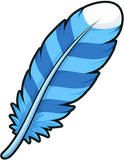
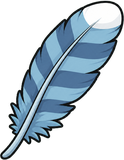
feat(ftb): feathers-only pickup burst from the lower hitbox, half-saturation feathers, wider vertical spread

diff --git a/games/find_the_bird/src/scenes/pickupParticles.ts b/games/find_the_bird/src/scenes/pickupParticles.ts
@@ -143,7 +143,7 @@ function featherDrift(scene: Phaser.Scene, px: number, py: number): Runner {
   const parts = Array.from({ length: 21 }, (_, i) => {
     const key = keys.length ? keys[i % keys.length] : 'pickup-feather';
     return {
-      ox: (r() * 220 - 110) * K, delay: r() * 0.2, sway: 1.5 + r() * 1.5, ph: r() * 6, oy: (r() * 50 - 40) * K,
+      ox: (r() * 220 - 110) * K, delay: r() * 0.25, sway: 1.5 + r() * 1.5, ph: r() * 6, oy: (r() * 150 - 100) * K, lift: 80 + r() * 90, drop: 240 + r() * 180,
       img: scene.add.image(px, py, key).setScrollFactor(1).setDepth(DEPTH + (i % 2)).setAlpha(0),
     };
   });
@@ -159,7 +159,7 @@ function featherDrift(scene: Phaser.Scene, px: number, py: number): Runner {
       for (const p of parts) {
         const tt = t - p.delay;
         if (tt < 0) { p.img.setAlpha(0); continue; }
-        const y = py + p.oy - 120 * tt * K + 330 * tt * tt * K;
+        const y = py + p.oy - p.lift * tt * K + p.drop * tt * tt * K;
         const x = px + p.ox * (1 + tt * 0.8) + 26 * K * Math.sin(p.ph + tt * p.sway * 3.14);
         p.img.setPosition(x, y);
         p.img.setRotation(0.5 * Math.sin(p.ph + tt * p.sway * 3.14));
@@ -215,5 +215,7 @@ export function playPickupParticles(scene: Phaser.Scene, kind: PickupFx, x: numb
 }
 
 export function pickRandomPickupFx(): PickupFx {
-  return PICKUP_FX_KINDS[Math.floor(Math.random() * PICKUP_FX_KINDS.length)];
+  // Batu 2026-09-16 device review: feathers only. The other kinds stay
+  // reachable from Settings > Debug.
+  return 'feathers';
 }

diff --git a/games/find_the_bird/src/scenes/GameScene.ts b/games/find_the_bird/src/scenes/GameScene.ts
@@ -3134,7 +3134,9 @@ export class GameScene extends Phaser.Scene {
     // pickup; Settings > Debug can pin one in harness builds).
     if (!prefersReducedMotion() && DEBUG_OVERRIDES.pickupFx !== 'none') {
       const kind = DEBUG_OVERRIDES.pickupFx === 'random' ? pickRandomPickupFx() : DEBUG_OVERRIDES.pickupFx;
-      playPickupParticles(this, kind, this.imgOffsetX + dog.x * this.imgScale, this.imgOffsetY + dog.y * this.imgScale);
+      // Spawn toward the bottom of the hitbox (r = 57 level px) so the
+      // feathers read as shed from the bird's body, not its head.
+      playPickupParticles(this, kind, this.imgOffsetX + dog.x * this.imgScale, this.imgOffsetY + (dog.y + 57 * 0.8) * this.imgScale);
     }
     const startScaleX = image.scaleX;
     const startScaleY = image.scaleY;
